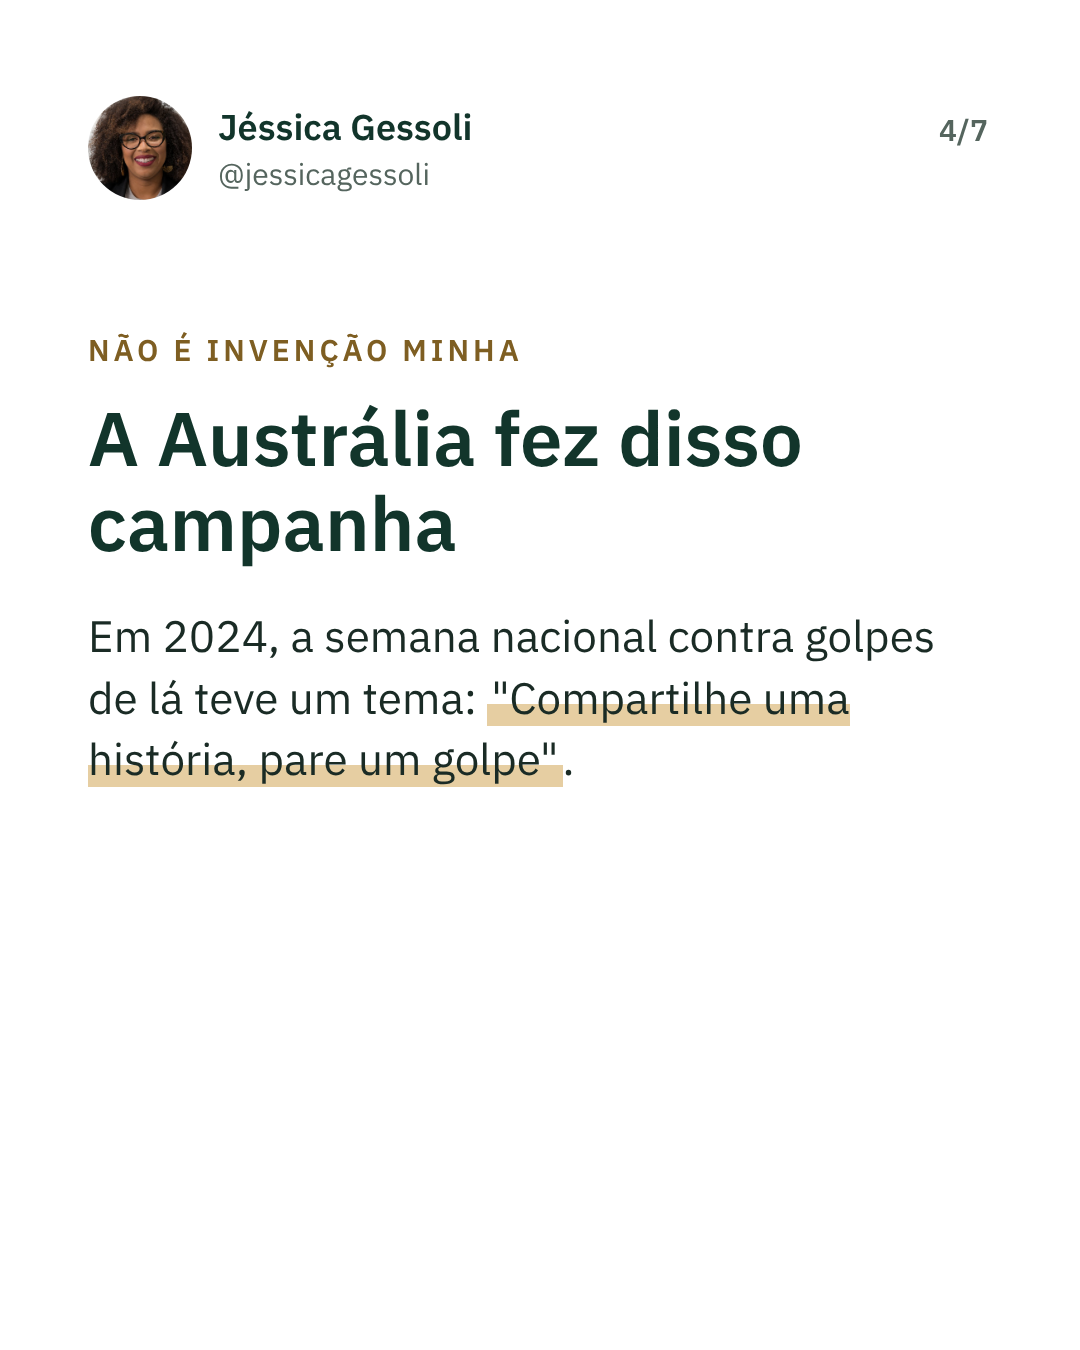
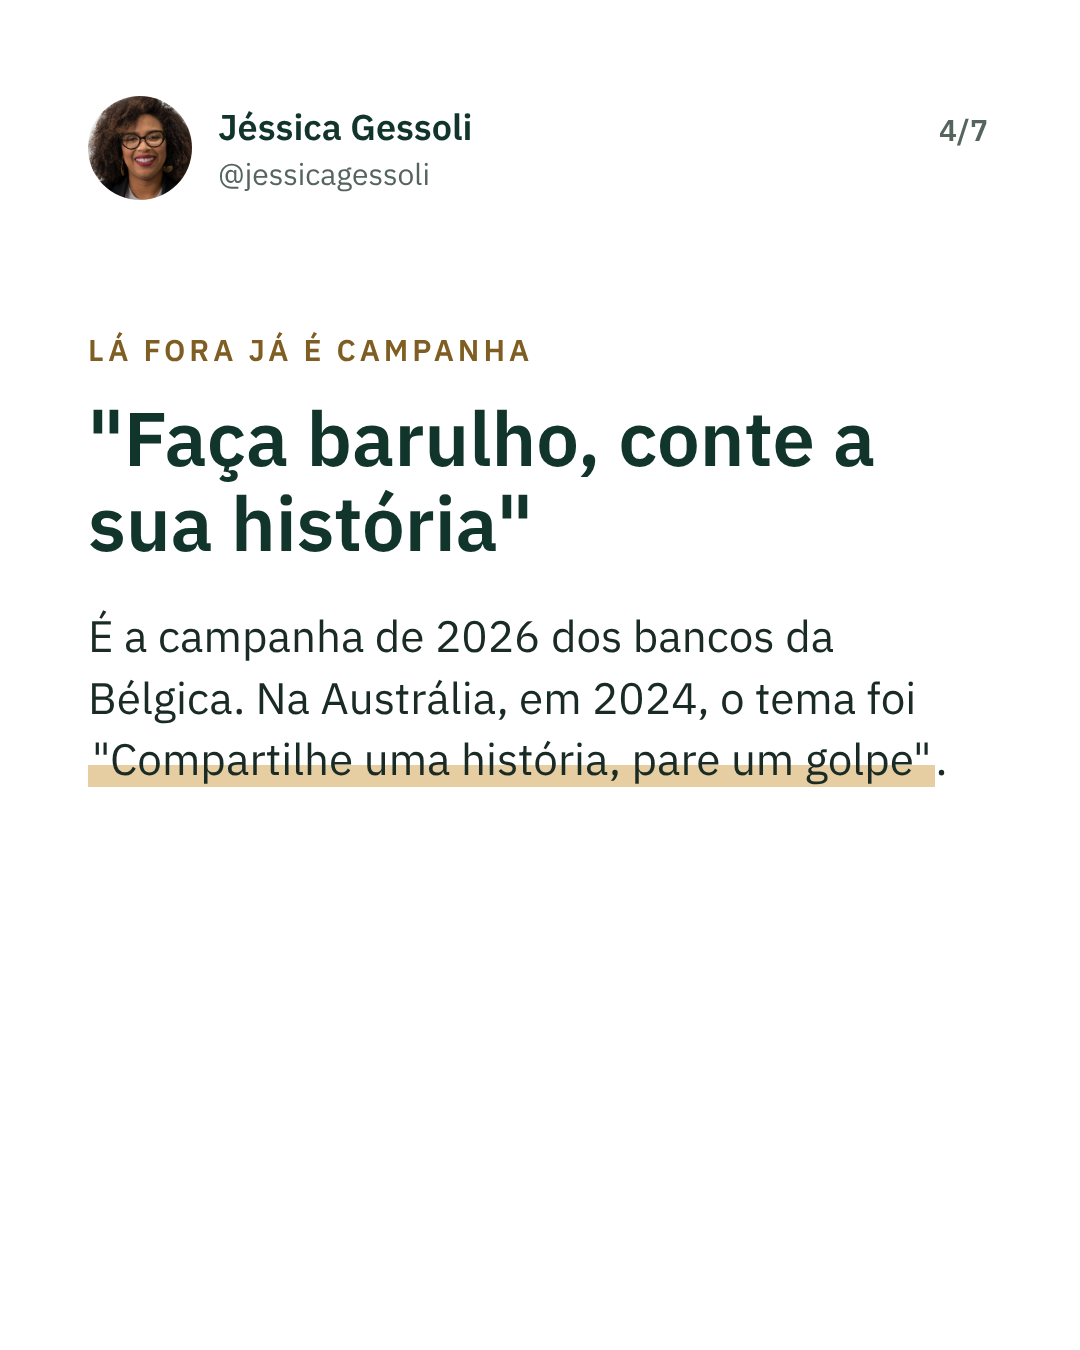
Reescreve os dois posts com foco no público: capa em pergunta, linguagem sem culpa (AARP), dados belgas (Febelfin 2026), capa escura sem foto
Claude-Session: https://claude.ai/code/session_014grh3uaSABRrhKanxqxRUA

Changed region(s): [[0.0611, 0.4356, 0.8861, 0.5911], [0.0611, 0.2489, 0.55, 0.4356], [0.5806, 0.3111, 0.825, 0.3422]]

diff --git a/campaigns/social/silencio-2026-10/out/2026-10-22-especialistas-caem-e-escondem-6.html b/campaigns/social/silencio-2026-10/out/2026-10-22-especialistas-caem-e-escondem-6.html
@@ -54,4 +54,4 @@ body.s-por{background:#F3F5F2}
 .chk{position:absolute;left:88px;top:860px;display:flex;gap:26px}.chk div{width:92px;height:92px;border:6px solid #D9B76E;border-radius:16px;position:relative}
 .chk div.ok{background:#D9B76E}.chk div.ok:after{content:"";position:absolute;left:28px;top:8px;width:22px;height:46px;border:solid #12352B;border-width:0 10px 10px 0;transform:rotate(45deg)}
 body.s-lat{background:#D9B76E;color:#12352B}.s-lat .at,.s-lat .pg{color:#12352B;opacity:.75}.s-lat mark{background:none;color:#12352B;text-decoration:underline;text-decoration-thickness:8px;text-underline-offset:14px;padding:0}.s-lat .qm,.s-lat .qa{color:#12352B}
-</style></head><body class=""><div class="hdr"><div class="av"></div><div><div class="nm">Jéssica Gessoli</div><div class="at">@jessicagessoli</div></div></div><div class="pg">6/7</div><div class="box"><div class="eb">CAIU? FAZ ISSO NO MESMO DIA</div><div class="tt">Sem vergonha e sem demora</div><ol><li>Conta pra alguém de confiança.</li><li>Avisa o banco e faz o boletim de ocorrência.</li><li>Na equipe: quem avisa rápido não leva bronca.</li><li>Espalha o roteiro do golpe, não a culpa.</li></ol></div></body></html>
+</style></head><body class=""><div class="hdr"><div class="av"></div><div><div class="nm">Jéssica Gessoli</div><div class="at">@jessicagessoli</div></div></div><div class="pg">6/7</div><div class="box"><div class="eb">SE ACONTECER COM VOCÊ</div><div class="tt">Faz isso no mesmo dia</div><ol><li>Conta pra alguém de confiança.</li><li>Avisa o banco e faz o boletim de ocorrência.</li><li>Contesta o Pix no app do banco.</li><li>Espalha o roteiro do golpe, não a culpa.</li></ol></div></body></html>

diff --git a/campaigns/social/silencio-2026-10/out/2026-10-22-especialistas-caem-e-escondem-5.html b/campaigns/social/silencio-2026-10/out/2026-10-22-especialistas-caem-e-escondem-5.html
@@ -54,4 +54,4 @@ body.s-por{background:#F3F5F2}
 .chk{position:absolute;left:88px;top:860px;display:flex;gap:26px}.chk div{width:92px;height:92px;border:6px solid #D9B76E;border-radius:16px;position:relative}
 .chk div.ok{background:#D9B76E}.chk div.ok:after{content:"";position:absolute;left:28px;top:8px;width:22px;height:46px;border:solid #12352B;border-width:0 10px 10px 0;transform:rotate(45deg)}
 body.s-lat{background:#D9B76E;color:#12352B}.s-lat .at,.s-lat .pg{color:#12352B;opacity:.75}.s-lat mark{background:none;color:#12352B;text-decoration:underline;text-decoration-thickness:8px;text-underline-offset:14px;padding:0}.s-lat .qm,.s-lat .qa{color:#12352B}
-</style></head><body class=""><div class="hdr"><div class="av"></div><div><div class="nm">Jéssica Gessoli</div><div class="at">@jessicagessoli</div></div></div><div class="pg">5/7</div><div class="box"><div class="eb">IMAGINA SE PILOTO ESCONDESSE ERRO</div><div class="tt">Na aviação, erro contado vira proteção</div><div class="bd">Desde 1976, piloto e controlador contam seus erros pra NASA, sem medo de punição. Já são <mark>mais de 2,3 milhões</mark> de relatos.</div></div></body></html>
+</style></head><body class=""><div class="hdr"><div class="av"></div><div><div class="nm">Jéssica Gessoli</div><div class="at">@jessicagessoli</div></div></div><div class="pg">5/7</div><div class="box"><div class="eb">O QUE A MAIORIA PENSA</div><div class="tt">8 em cada 10 acham que contar ajuda</div><div class="bd">Na mesma pesquisa belga, de 78% a 84% disseram que contar a experiência ajuda os outros a <mark>reconhecer o golpe mais rápido</mark>.</div></div></body></html>

diff --git a/campaigns/social/conte-seu-golpe-2026-10/out/2026-10-23-conte-o-seu-golpe-4.html b/campaigns/social/conte-seu-golpe-2026-10/out/2026-10-23-conte-o-seu-golpe-4.html
@@ -54,4 +54,4 @@ body.s-por{background:#F3F5F2}
 .chk{position:absolute;left:88px;top:860px;display:flex;gap:26px}.chk div{width:92px;height:92px;border:6px solid #D9B76E;border-radius:16px;position:relative}
 .chk div.ok{background:#D9B76E}.chk div.ok:after{content:"";position:absolute;left:28px;top:8px;width:22px;height:46px;border:solid #12352B;border-width:0 10px 10px 0;transform:rotate(45deg)}
 body.s-lat{background:#D9B76E;color:#12352B}.s-lat .at,.s-lat .pg{color:#12352B;opacity:.75}.s-lat mark{background:none;color:#12352B;text-decoration:underline;text-decoration-thickness:8px;text-underline-offset:14px;padding:0}.s-lat .qm,.s-lat .qa{color:#12352B}
-</style></head><body class=""><div class="hdr"><div class="av"></div><div><div class="nm">Jéssica Gessoli</div><div class="at">@jessicagessoli</div></div></div><div class="pg">4/7</div><div class="box"><div class="eb">NÃO É INVENÇÃO MINHA</div><div class="tt">A Austrália fez disso campanha</div><div class="bd">Em 2024, a semana nacional contra golpes de lá teve um tema: <mark>&quot;Compartilhe uma história, pare um golpe&quot;</mark>.</div></div></body></html>
+</style></head><body class=""><div class="hdr"><div class="av"></div><div><div class="nm">Jéssica Gessoli</div><div class="at">@jessicagessoli</div></div></div><div class="pg">4/7</div><div class="box"><div class="eb">LÁ FORA JÁ É CAMPANHA</div><div class="tt">&quot;Faça barulho, conte a sua história&quot;</div><div class="bd">É a campanha de 2026 dos bancos da Bélgica. Na Austrália, em 2024, o tema foi <mark>&quot;Compartilhe uma história, pare um golpe&quot;</mark>.</div></div></body></html>

diff --git a/campaigns/social/conte-seu-golpe-2026-10/out/2026-10-23-conte-o-seu-golpe-5.html b/campaigns/social/conte-seu-golpe-2026-10/out/2026-10-23-conte-o-seu-golpe-5.html
@@ -54,4 +54,4 @@ body.s-por{background:#F3F5F2}
 .chk{position:absolute;left:88px;top:860px;display:flex;gap:26px}.chk div{width:92px;height:92px;border:6px solid #D9B76E;border-radius:16px;position:relative}
 .chk div.ok{background:#D9B76E}.chk div.ok:after{content:"";position:absolute;left:28px;top:8px;width:22px;height:46px;border:solid #12352B;border-width:0 10px 10px 0;transform:rotate(45deg)}
 body.s-lat{background:#D9B76E;color:#12352B}.s-lat .at,.s-lat .pg{color:#12352B;opacity:.75}.s-lat mark{background:none;color:#12352B;text-decoration:underline;text-decoration-thickness:8px;text-underline-offset:14px;padding:0}.s-lat .qm,.s-lat .qa{color:#12352B}
-</style></head><body class=""><div class="hdr"><div class="av"></div><div><div class="nm">Jéssica Gessoli</div><div class="at">@jessicagessoli</div></div></div><div class="pg">5/7</div><div class="box"><div class="eb">FUNCIONA ASSIM</div><div class="tt">Conte o seu golpe</div><ol><li>Leva poucos minutos e não pede o seu nome.</li><li>Você decide se o relato pode virar post.</li><li>Nome, cidade e valor eu troco.</li><li>Quer apagar depois? Eu apago.</li></ol></div></body></html>
+</style></head><body class=""><div class="hdr"><div class="av"></div><div><div class="nm">Jéssica Gessoli</div><div class="at">@jessicagessoli</div></div></div><div class="pg">5/7</div><div class="box"><div class="eb">AQUI TAMBÉM: CONTE O SEU GOLPE</div><div class="tt">Leva poucos minutos</div><ol><li>Não pede o seu nome.</li><li>Você decide se o relato pode virar post.</li><li>Nome, cidade e valor são trocados.</li><li>Quer apagar depois? É só pedir.</li></ol></div></body></html>

diff --git a/campaigns/social/silencio-2026-10/out/2026-10-22-especialistas-caem-e-escondem-7.html b/campaigns/social/silencio-2026-10/out/2026-10-22-especialistas-caem-e-escondem-7.html
@@ -54,4 +54,4 @@ body.s-por{background:#F3F5F2}
 .chk{position:absolute;left:88px;top:860px;display:flex;gap:26px}.chk div{width:92px;height:92px;border:6px solid #D9B76E;border-radius:16px;position:relative}
 .chk div.ok{background:#D9B76E}.chk div.ok:after{content:"";position:absolute;left:28px;top:8px;width:22px;height:46px;border:solid #12352B;border-width:0 10px 10px 0;transform:rotate(45deg)}
 body.s-lat{background:#D9B76E;color:#12352B}.s-lat .at,.s-lat .pg{color:#12352B;opacity:.75}.s-lat mark{background:none;color:#12352B;text-decoration:underline;text-decoration-thickness:8px;text-underline-offset:14px;padding:0}.s-lat .qm,.s-lat .qa{color:#12352B}
-</style></head><body class="dark"><div class="hdr"><div class="av"></div><div><div class="nm">Jéssica Gessoli</div><div class="at">@jessicagessoli</div></div></div><div class="pg">7/7</div><div class="box"><div class="eb">VERGONHA NÃO DEVOLVE DINHEIRO</div><div class="tt">Quem esconde protege a própria imagem. <mark>Quem conta protege os outros.</mark></div><div class="bd">Amanhã eu abro um canal pra você contar o seu, sem se identificar. Salva e manda pra quem já caiu e nunca contou.</div></div></body></html>
+</style></head><body class="dark"><div class="hdr"><div class="av"></div><div><div class="nm">Jéssica Gessoli</div><div class="at">@jessicagessoli</div></div></div><div class="pg">7/7</div><div class="box"><div class="eb">AGORA ME RESPONDE</div><div class="tt">Quem da sua família <mark>precisa ouvir isso?</mark></div><div class="bd">Manda pra essa pessoa. Amanhã eu abro um canal pra você contar o seu, sem se identificar.</div></div></body></html>

diff --git a/campaigns/social/silencio-2026-10/out/2026-10-22-especialistas-caem-e-escondem-1.html b/campaigns/social/silencio-2026-10/out/2026-10-22-especialistas-caem-e-escondem-1.html
@@ -54,4 +54,4 @@ body.s-por{background:#F3F5F2}
 .chk{position:absolute;left:88px;top:860px;display:flex;gap:26px}.chk div{width:92px;height:92px;border:6px solid #D9B76E;border-radius:16px;position:relative}
 .chk div.ok{background:#D9B76E}.chk div.ok:after{content:"";position:absolute;left:28px;top:8px;width:22px;height:46px;border:solid #12352B;border-width:0 10px 10px 0;transform:rotate(45deg)}
 body.s-lat{background:#D9B76E;color:#12352B}.s-lat .at,.s-lat .pg{color:#12352B;opacity:.75}.s-lat mark{background:none;color:#12352B;text-decoration:underline;text-decoration-thickness:8px;text-underline-offset:14px;padding:0}.s-lat .qm,.s-lat .qa{color:#12352B}
-</style></head><body class="cover s-por"><div class="foto"></div><div class="hdr"><div class="av"></div><div><div class="nm">Jéssica Gessoli</div><div class="at">@jessicagessoli</div></div></div><div class="pg">1/7</div><div class="tag">ESPECIALISTAS TAMBÉM CAEM</div><h1 style="width:640px;font-size:100px">Especialistas também caem. <mark>E escondem.</mark></h1><div class="cta" style="width:340px;bottom:120px;font-size:34px;line-height:1.3">Eu também pensei em esconder o meu. Bora falar disso?</div></body></html>
+</style></head><body class="cover s-dk"><div class="hdr"><div class="av"></div><div><div class="nm">Jéssica Gessoli</div><div class="at">@jessicagessoli</div></div></div><div class="pg">1/7</div><div class="tag">VERGONHA NÃO PROTEGE</div><h1 style="font-size:92px">Se um golpe levasse o seu dinheiro hoje, <mark>pra quem você contaria?</mark></h1><div class="cta">Responde de cabeça e arrasta.</div></body></html>

diff --git a/campaigns/social/silencio-2026-10/out/2026-10-22-especialistas-caem-e-escondem-4.html b/campaigns/social/silencio-2026-10/out/2026-10-22-especialistas-caem-e-escondem-4.html
@@ -54,4 +54,4 @@ body.s-por{background:#F3F5F2}
 .chk{position:absolute;left:88px;top:860px;display:flex;gap:26px}.chk div{width:92px;height:92px;border:6px solid #D9B76E;border-radius:16px;position:relative}
 .chk div.ok{background:#D9B76E}.chk div.ok:after{content:"";position:absolute;left:28px;top:8px;width:22px;height:46px;border:solid #12352B;border-width:0 10px 10px 0;transform:rotate(45deg)}
 body.s-lat{background:#D9B76E;color:#12352B}.s-lat .at,.s-lat .pg{color:#12352B;opacity:.75}.s-lat mark{background:none;color:#12352B;text-decoration:underline;text-decoration-thickness:8px;text-underline-offset:14px;padding:0}.s-lat .qm,.s-lat .qa{color:#12352B}
-</style></head><body class=""><div class="hdr"><div class="av"></div><div><div class="nm">Jéssica Gessoli</div><div class="at">@jessicagessoli</div></div></div><div class="pg">4/7</div><div class="box"><div class="eb">NAS EMPRESAS</div><div class="tt">Tem até ordem pra ficar quieto</div><div class="bd">Em 2025, <mark>57,6%</mark> dos profissionais de TI e segurança ouvidos pela Bitdefender disseram que já receberam ordem para manter um incidente em sigilo.</div></div></body></html>
+</style></head><body class=""><div class="hdr"><div class="av"></div><div><div class="nm">Jéssica Gessoli</div><div class="at">@jessicagessoli</div></div></div><div class="pg">4/7</div><div class="box"><div class="eb">O QUE O SILÊNCIO FAZ</div><div class="tt">Ele protege o criminoso</div><div class="bd">Quem não conta não avisa a mãe, o sócio, o funcionário. E o <mark>mesmo roteiro</mark> chega neles.</div></div></body></html>

diff --git a/campaigns/social/conte-seu-golpe-2026-10/out/2026-10-23-conte-o-seu-golpe-1.html b/campaigns/social/conte-seu-golpe-2026-10/out/2026-10-23-conte-o-seu-golpe-1.html
@@ -54,4 +54,4 @@ body.s-por{background:#F3F5F2}
 .chk{position:absolute;left:88px;top:860px;display:flex;gap:26px}.chk div{width:92px;height:92px;border:6px solid #D9B76E;border-radius:16px;position:relative}
 .chk div.ok{background:#D9B76E}.chk div.ok:after{content:"";position:absolute;left:28px;top:8px;width:22px;height:46px;border:solid #12352B;border-width:0 10px 10px 0;transform:rotate(45deg)}
 body.s-lat{background:#D9B76E;color:#12352B}.s-lat .at,.s-lat .pg{color:#12352B;opacity:.75}.s-lat mark{background:none;color:#12352B;text-decoration:underline;text-decoration-thickness:8px;text-underline-offset:14px;padding:0}.s-lat .qm,.s-lat .qa{color:#12352B}
-</style></head><body class="cover s-por"><div class="foto"></div><div class="hdr"><div class="av"></div><div><div class="nm">Jéssica Gessoli</div><div class="at">@jessicagessoli</div></div></div><div class="pg">1/7</div><div class="tag">ESPECIALISTAS TAMBÉM CAEM</div><h1 style="width:640px;font-size:100px">Já caiu num golpe? <mark>Então me conta.</mark></h1><div class="cta" style="width:340px;bottom:120px;font-size:34px;line-height:1.3">Sem nome. Sem julgamento. Pra proteger o próximo.</div></body></html>
+</style></head><body class="cover s-dk"><div class="hdr"><div class="av"></div><div><div class="nm">Jéssica Gessoli</div><div class="at">@jessicagessoli</div></div></div><div class="pg">1/7</div><div class="tag">CONTE O SEU GOLPE</div><h1 style="font-size:92px">Você conhece alguém que foi vítima de golpe <mark>e nunca contou?</mark></h1><div class="cta">Talvez seja você. Arrasta.</div></body></html>

diff --git a/campaigns/social/silencio-2026-10/out/2026-10-22-especialistas-caem-e-escondem-2.html b/campaigns/social/silencio-2026-10/out/2026-10-22-especialistas-caem-e-escondem-2.html
@@ -54,4 +54,4 @@ body.s-por{background:#F3F5F2}
 .chk{position:absolute;left:88px;top:860px;display:flex;gap:26px}.chk div{width:92px;height:92px;border:6px solid #D9B76E;border-radius:16px;position:relative}
 .chk div.ok{background:#D9B76E}.chk div.ok:after{content:"";position:absolute;left:28px;top:8px;width:22px;height:46px;border:solid #12352B;border-width:0 10px 10px 0;transform:rotate(45deg)}
 body.s-lat{background:#D9B76E;color:#12352B}.s-lat .at,.s-lat .pg{color:#12352B;opacity:.75}.s-lat mark{background:none;color:#12352B;text-decoration:underline;text-decoration-thickness:8px;text-underline-offset:14px;padding:0}.s-lat .qm,.s-lat .qa{color:#12352B}
-</style></head><body class=""><div class="hdr"><div class="av"></div><div><div class="nm">Jéssica Gessoli</div><div class="at">@jessicagessoli</div></div></div><div class="pg">2/7</div><div class="box"><div class="eb">O MEDO</div><div class="tt">&quot;Se eu contar, ninguém mais confia em mim&quot;</div><div class="bd">É o que passa na cabeça de quem é da área. Aí a pessoa cai e <mark>fica quietinha</mark>.</div></div></body></html>
+</style></head><body class=""><div class="hdr"><div class="av"></div><div><div class="nm">Jéssica Gessoli</div><div class="at">@jessicagessoli</div></div></div><div class="pg">2/7</div><div class="box"><div class="eb">SE A RESPOSTA FOI &quot;NINGUÉM&quot;</div><div class="tt">Você não está sozinho</div><div class="bd">Na Bélgica, 64% sentiriam vergonha de ser vítimas de golpe online. De um assalto em casa? <mark>Só 20%.</mark></div></div></body></html>

diff --git a/campaigns/social/conte-seu-golpe-2026-10/out/2026-10-23-conte-o-seu-golpe-6.html b/campaigns/social/conte-seu-golpe-2026-10/out/2026-10-23-conte-o-seu-golpe-6.html
@@ -54,4 +54,4 @@ body.s-por{background:#F3F5F2}
 .chk{position:absolute;left:88px;top:860px;display:flex;gap:26px}.chk div{width:92px;height:92px;border:6px solid #D9B76E;border-radius:16px;position:relative}
 .chk div.ok{background:#D9B76E}.chk div.ok:after{content:"";position:absolute;left:28px;top:8px;width:22px;height:46px;border:solid #12352B;border-width:0 10px 10px 0;transform:rotate(45deg)}
 body.s-lat{background:#D9B76E;color:#12352B}.s-lat .at,.s-lat .pg{color:#12352B;opacity:.75}.s-lat mark{background:none;color:#12352B;text-decoration:underline;text-decoration-thickness:8px;text-underline-offset:14px;padding:0}.s-lat .qm,.s-lat .qa{color:#12352B}
-</style></head><body class=""><div class="hdr"><div class="av"></div><div><div class="nm">Jéssica Gessoli</div><div class="at">@jessicagessoli</div></div></div><div class="pg">6/7</div><div class="box"><div class="eb">O QUE NUNCA VAI APARECER</div><div class="tt">O passo a passo do golpista</div><div class="bd">Aqui a gente mostra os sinais de alerta. E o formulário <mark>nunca pede</mark> CPF, telefone ou dado de banco.</div></div></body></html>
+</style></head><body class=""><div class="hdr"><div class="av"></div><div><div class="nm">Jéssica Gessoli</div><div class="at">@jessicagessoli</div></div></div><div class="pg">6/7</div><div class="box"><div class="eb">O QUE NUNCA VAI APARECER</div><div class="tt">O passo a passo do criminoso</div><div class="bd">Os posts mostram os sinais de alerta. E o formulário <mark>nunca pede</mark> CPF, telefone ou dado de banco.</div></div></body></html>

diff --git a/campaigns/social/silencio-2026-10/out/2026-10-22-especialistas-caem-e-escondem-3.html b/campaigns/social/silencio-2026-10/out/2026-10-22-especialistas-caem-e-escondem-3.html
@@ -54,4 +54,4 @@ body.s-por{background:#F3F5F2}
 .chk{position:absolute;left:88px;top:860px;display:flex;gap:26px}.chk div{width:92px;height:92px;border:6px solid #D9B76E;border-radius:16px;position:relative}
 .chk div.ok{background:#D9B76E}.chk div.ok:after{content:"";position:absolute;left:28px;top:8px;width:22px;height:46px;border:solid #12352B;border-width:0 10px 10px 0;transform:rotate(45deg)}
 body.s-lat{background:#D9B76E;color:#12352B}.s-lat .at,.s-lat .pg{color:#12352B;opacity:.75}.s-lat mark{background:none;color:#12352B;text-decoration:underline;text-decoration-thickness:8px;text-underline-offset:14px;padding:0}.s-lat .qm,.s-lat .qa{color:#12352B}
-</style></head><body class=""><div class="hdr"><div class="av"></div><div><div class="nm">Jéssica Gessoli</div><div class="at">@jessicagessoli</div></div></div><div class="pg">3/7</div><div class="box"><div class="eb">E NÃO É SÓ ESPECIALISTA</div><div class="tt">8 em cada 10 teriam vergonha</div><div class="bd">Pesquisa britânica de 2020: 80% teriam vergonha de admitir que caíram num golpe. Contar pro chefe? <mark>Só 9%.</mark></div></div></body></html>
+</style></head><body class=""><div class="hdr"><div class="av"></div><div><div class="nm">Jéssica Gessoli</div><div class="at">@jessicagessoli</div></div></div><div class="pg">3/7</div><div class="box"><div class="eb">MAS PENSA COMIGO</div><div class="tt">Assalto não dá vergonha. Por que golpe daria?</div><div class="bd">Nos dois casos, um criminoso roubou você. <mark>A culpa é de quem roubou.</mark></div></div></body></html>

diff --git a/campaigns/social/conte-seu-golpe-2026-10/out/2026-10-23-conte-o-seu-golpe-7.html b/campaigns/social/conte-seu-golpe-2026-10/out/2026-10-23-conte-o-seu-golpe-7.html
@@ -54,4 +54,4 @@ body.s-por{background:#F3F5F2}
 .chk{position:absolute;left:88px;top:860px;display:flex;gap:26px}.chk div{width:92px;height:92px;border:6px solid #D9B76E;border-radius:16px;position:relative}
 .chk div.ok{background:#D9B76E}.chk div.ok:after{content:"";position:absolute;left:28px;top:8px;width:22px;height:46px;border:solid #12352B;border-width:0 10px 10px 0;transform:rotate(45deg)}
 body.s-lat{background:#D9B76E;color:#12352B}.s-lat .at,.s-lat .pg{color:#12352B;opacity:.75}.s-lat mark{background:none;color:#12352B;text-decoration:underline;text-decoration-thickness:8px;text-underline-offset:14px;padding:0}.s-lat .qm,.s-lat .qa{color:#12352B}
-</style></head><body class="dark"><div class="hdr"><div class="av"></div><div><div class="nm">Jéssica Gessoli</div><div class="at">@jessicagessoli</div></div></div><div class="pg">7/7</div><div class="box"><div class="eb">EU COMECEI</div><div class="tt">Eu contei o meu. <mark>Agora é a sua vez.</mark></div><div class="bd">Link na bio: Conte o seu golpe. Manda pra alguém que já caiu e nunca contou.</div></div></body></html>
+</style></head><body class="dark"><div class="hdr"><div class="av"></div><div><div class="nm">Jéssica Gessoli</div><div class="at">@jessicagessoli</div></div></div><div class="pg">7/7</div><div class="box"><div class="eb">AGORA ME RESPONDE</div><div class="tt">Qual golpe você queria que alguém <mark>tivesse te contado antes?</mark></div><div class="bd">Conta no link da bio. E manda este post pra quem precisa contar o dele.</div></div></body></html>
